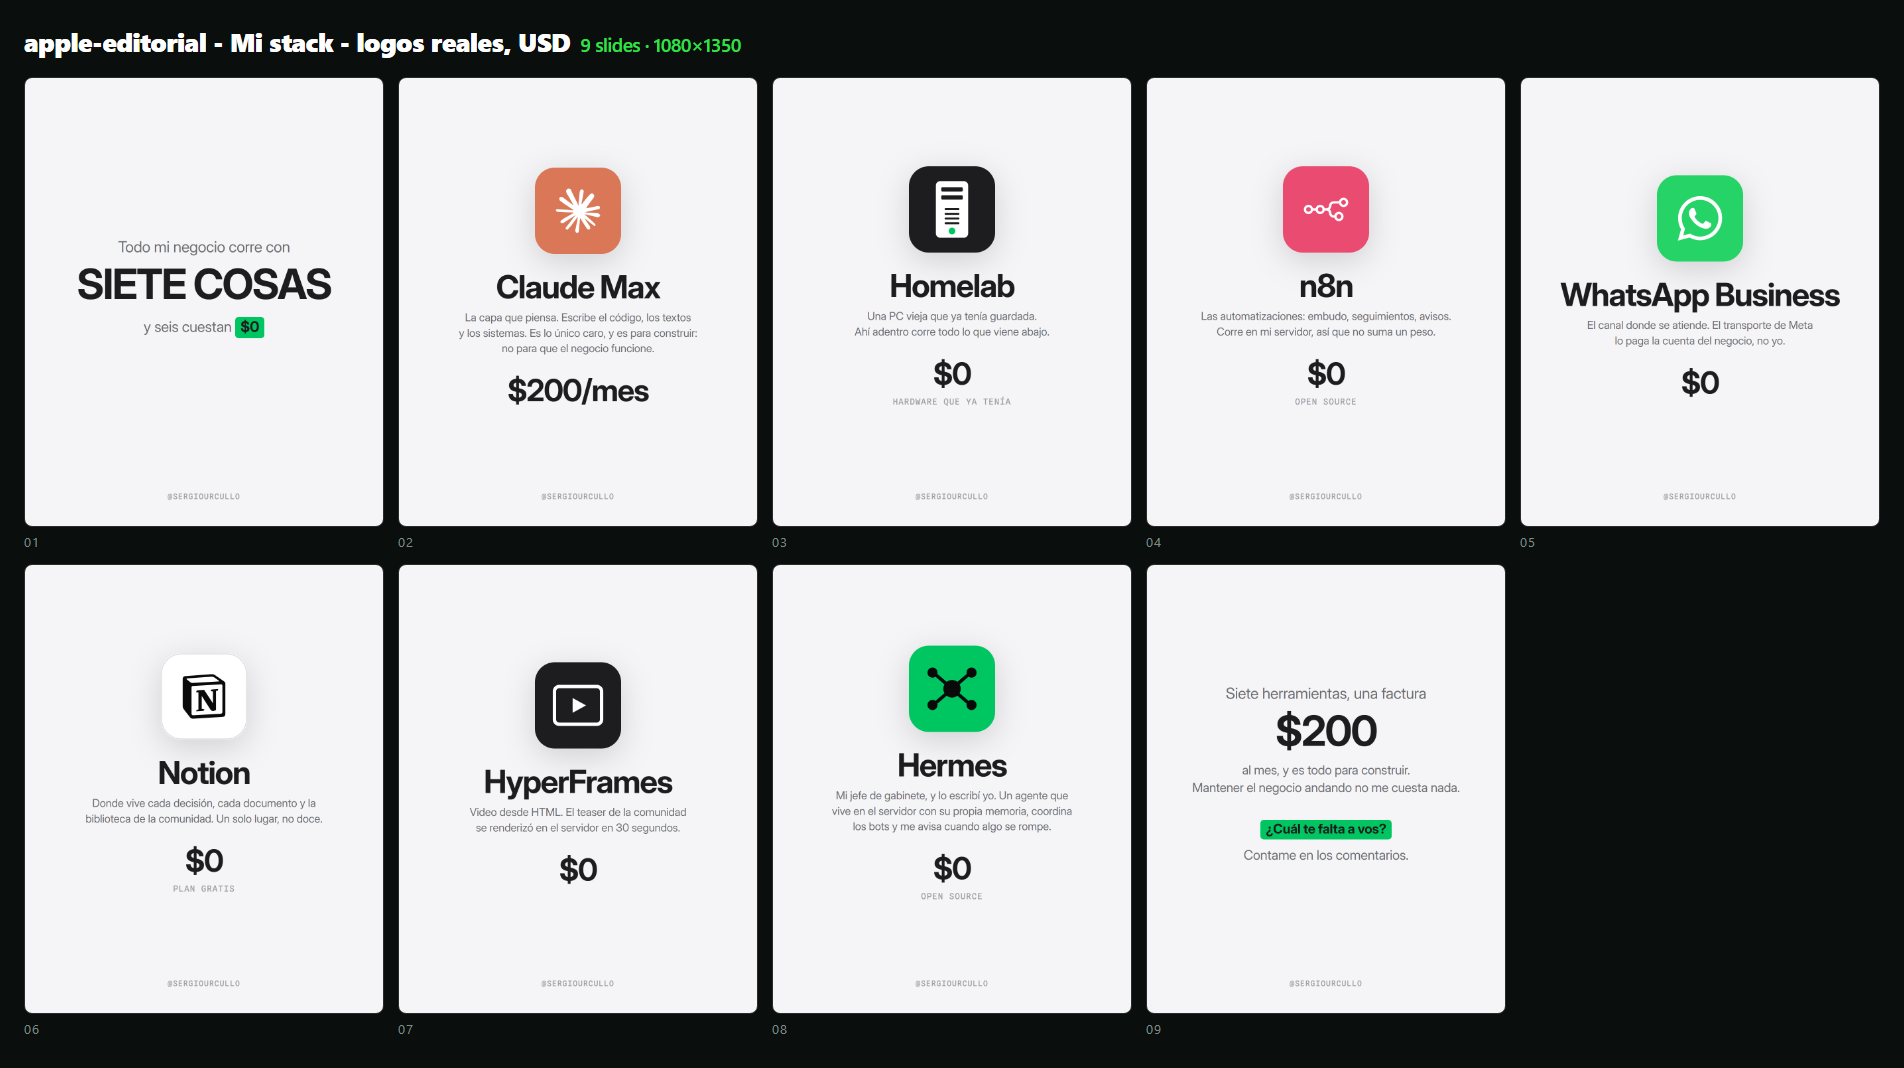
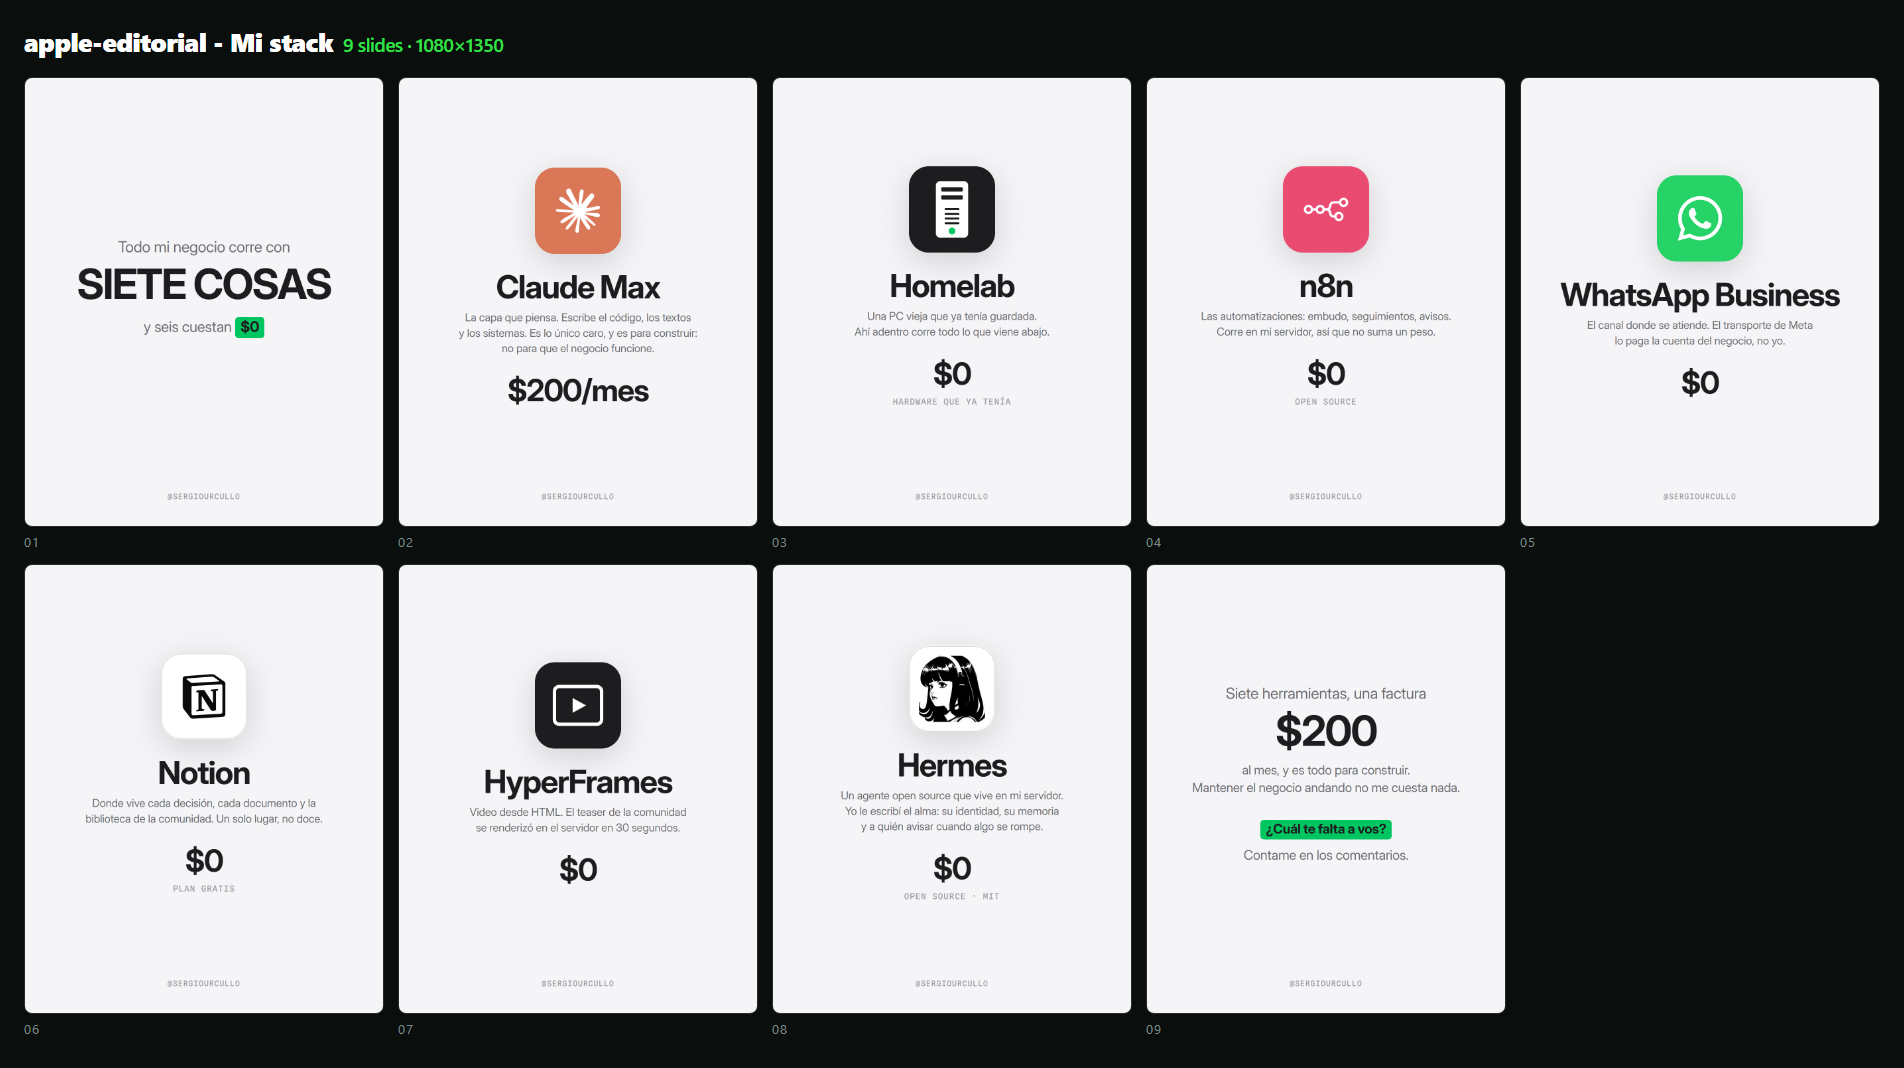
fix(marca-personal): Hermes es open source, pero no es código nuestro
Sergio Urcullo pasó el link: NousResearch/hermes-agent. Verificado con
`gh repo view`: público, MIT, Python, 242k estrellas. Tenía razón en que es open
source — y eso destapó un error peor en la dirección contraria.

La lámina decía "mi jefe de gabinete, y lo escribí yo". Falso: el agente es de
NousResearch. Lo de Sergio Urcullo es el SOUL.md, la memoria y la config con la
que corre en su servidor, que es lo que dice ahora: "un agente open source que
vive en mi servidor; yo le escribí el alma".

La causa fue una colisión de nombres que la memoria del proyecto ya tenía
marcada: hermes-content/deploy/hermes-agent/SOUL.md dice "Hermes — el jefe de
gabinete de Sergio" y se lee como si el agente fuera nuestro. Reclamar autoría de
un proyecto ajeno en pieza pública estuvo a un render de salir.

Dos correcciones que se caen de ahí:
· El logo es el real del proyecto (nous-girl.jpg, bajado del upstream). La imagen
  que mandó Sergio Urcullo era eso, no un avatar suyo.
· Hermes YA NO lleva el verde de Onia. Vestir código de terceros con nuestra marca
  sugiere autoría. Ahora ningún objeto lleva verde: cada uno usa su propio color,
  y el verde vive sólo en los highlights de la portada y del CTA.

Decisiones suyas aplicadas: el VPS sigue vivo pero no va en la pieza (total $200
es deliberado, no un olvido); Notion en plan gratis.

Changed region(s): [[0.4648, 0.5871, 0.5268, 0.7107], [0.4338, 0.7416, 0.5578, 0.8034], [0.1859, 0.0309, 0.4028, 0.0618]]

diff --git a/scripts/marca-personal/generar-apple-editorial.py b/scripts/marca-personal/generar-apple-editorial.py
@@ -92,6 +92,23 @@ def _marca(slug, color):
             f'<path d="{d}" fill="{color}"/></g>')
 
 
+def _imagen(nombre, alto=196):
+    """Logo en mapa de bits dentro del squircle (PNG/JPG), centrado.
+
+    Existe para el logo de Hermes, que es una ilustracion y no un glifo: redibujarla
+    "parecida" es exactamente la trampa #9 de la FICHA. Devuelve '' si el archivo no
+    esta, y el llamador cae al glifo dibujado — asi el generador nunca se rompe por un
+    asset ausente, solo entrega menos.
+    """
+    for ext in (".png", ".jpg", ".jpeg", ".svg", ".webp"):
+        ruta = LOGOS / f"{nombre}{ext}"
+        if ruta.exists():
+            off = (256 - alto) / 2
+            return (f'<image href="{ruta.as_uri()}" x="{off}" y="{off}" '
+                    f'width="{alto}" height="{alto}" preserveAspectRatio="xMidYMid meet"/>')
+    return ""
+
+
 def _torre():
     # Torre de escritorio: el homelab es una maquina fisica que Sergio Urcullo ya tenia,
     # no un servidor alquilado. La primera version salio angosta y con dos rayas, y a
@@ -126,16 +143,21 @@ ICONOS = {
         '<rect x="58" y="72" width="140" height="112" rx="14" fill="none" stroke="#FFFFFF" stroke-width="10"/>'
         '<path d="M112 106 L152 128 L112 150 Z" fill="#FFFFFF"/>',
     ),
-    # Hermes lleva el verde de Onia y es el UNICO objeto que lo lleva: dice "esta es mia"
-    # sin gastar una palabra. Relleno verde con glifo negro — el tratamiento de la §7 que
-    # mide 8,72:1; el verde como tinta reprueba AA.
+    # Hermes usa el logo REAL del proyecto (nous-girl de NousResearch/hermes-agent, MIT).
+    # NO lleva el verde de Onia: es codigo de terceros, y vestirlo con nuestra marca
+    # sugeriria autoria. Squircle blanco con filo, como Notion — el line art es blanco y
+    # negro y sobre blanco lee perfecto. El glifo de nodos queda de respaldo por si falta
+    # el archivo, para que el generador no se rompa por un asset ausente.
     "hermes": _squircle(
-        "#00C661",
-        '<circle cx="128" cy="128" r="26" fill="#0A0A0A"/>'
-        '<circle cx="70" cy="80" r="15" fill="#0A0A0A"/><circle cx="186" cy="80" r="15" fill="#0A0A0A"/>'
-        '<circle cx="70" cy="176" r="15" fill="#0A0A0A"/><circle cx="186" cy="176" r="15" fill="#0A0A0A"/>'
-        '<path d="M84 90 L112 114 M172 90 L144 114 M84 166 L112 142 M172 166 L144 142"'
-        ' stroke="#0A0A0A" stroke-width="10" stroke-linecap="round"/>',
+        "#FFFFFF",
+        _imagen("hermes") or (
+            '<circle cx="128" cy="128" r="26" fill="#0A0A0A"/>'
+            '<circle cx="70" cy="80" r="15" fill="#0A0A0A"/><circle cx="186" cy="80" r="15" fill="#0A0A0A"/>'
+            '<circle cx="70" cy="176" r="15" fill="#0A0A0A"/><circle cx="186" cy="176" r="15" fill="#0A0A0A"/>'
+            '<path d="M84 90 L112 114 M172 90 L144 114 M84 166 L112 142 M172 166 L144 142"'
+            ' stroke="#0A0A0A" stroke-width="10" stroke-linecap="round"/>'
+        ),
+        borde="#D2D2D7",
     ),
 }
 
@@ -212,18 +234,19 @@ LAMINAS = [
         "desc": "Video desde HTML. El teaser de la comunidad\nse renderizó en el servidor en 30 segundos.",
         "precio": "$0",
     },
-    # El giro, justo antes del cierre: la unica del stack que escribio el, y encima abierta.
-    # Hermes vive en hermes-content/deploy/hermes-agent/SOUL.md ("el jefe de gabinete de
-    # Sergio"). Open source por decision de Sergio Urcullo (06-sep) — es su codigo y su
-    # licencia. OJO: hoy no hay repo publico enlazable; si la lamina lo dice, alguien lo va
-    # a pedir en los comentarios.
+    # El giro, justo antes del cierre. ⚠ Corregido el 06-sep: la bajada decia "lo escribi
+    # yo" y es FALSO. Hermes es NousResearch/hermes-agent — publico, MIT, Python, 242k
+    # estrellas (verificado con `gh repo view`). Lo de Sergio Urcullo es el SOUL.md, la
+    # memoria y la config con la que corre en su maquina, que es lo que ahora dice la
+    # lamina. Reclamar autoria de un proyecto ajeno en pieza publica es lo peor que podia
+    # tener esta pieza.
     {
         "layout": "E",
         "icono": "hermes",
         "nombre": "Hermes",
-        "desc": "Mi jefe de gabinete, y lo escribí yo. Un agente que\nvive en el servidor con su propia memoria, coordina\nlos bots y me avisa cuando algo se rompe.",
+        "desc": "Un agente open source que vive en mi servidor.\nYo le escribí el alma: su identidad, su memoria\ny a quién avisar cuando algo se rompe.",
         "precio": "$0",
-        "etiqueta": "Open source",
+        "etiqueta": "Open source · MIT",
     },
     {
         "layout": "D",

diff --git a/hermes-content/references/ui-patterns/apple-editorial/FICHA.md b/hermes-content/references/ui-patterns/apple-editorial/FICHA.md
@@ -52,9 +52,11 @@ Valores exactos en [`tokens.css`](tokens.css). Lo que no se puede poner en una v
 - **Etiqueta de procedencia** (`open source`, `plan gratis`) debajo del precio, en el mismo
   tratamiento que el handle — mono, mayúscula, gris. Lee como dato técnico y no compite con
   el precio. Es opcional: se pone sólo donde es **verificable**.
-- **El verde marca propiedad, no decora.** En «Mi stack» el único objeto con el verde de
-  Onia es Hermes, que es lo único que escribió Sergio Urcullo: dice "ésta es mía" sin gastar
-  una palabra. Relleno verde + glifo negro (8,72:1), nunca verde como tinta.
+- **Ningún objeto lleva el verde de Onia.** Se probó vestir a Hermes de verde para decir
+  "ésta es mía" — y era falso: Hermes es código MIT de terceros. Vestir una herramienta
+  ajena con nuestra marca sugiere autoría. Cada objeto usa **su propio** color de marca; el
+  verde vive sólo en el highlight de la portada y en el del CTA. Relleno verde + tinta negra
+  (8,72:1), nunca verde como tinta.
 
 ## Tipografía — ✅ INTER, aprobada por Sergio Urcullo (06-sep, mirando el A/B)
 
@@ -143,5 +145,22 @@ aparte y deja el A/B mirable.
    "4 vCPU / 16 GB / 41 contenedores" que le había puesto — **son del VPS, no de esta
    máquina**, y las de la PC no están registradas en ningún lado. Sin dato verificado, no se
    escribe dato.
-   🔴 **Queda abierto:** si el VPS de §8.1 (US$40/mes) sigue vivo y pagado, la pieza está
-   omitiendo una factura real y el total no es $200 sino $240. Depende de Sergio Urcullo.
+   ✅ **Resuelto (06-sep):** el VPS de §8.1 sigue vivo, y Sergio Urcullo decidió **no
+   ponerlo** en la pieza. El total de $200 refleja esa decisión, no un olvido.
+12. 🔴 **Hermes SÍ es open source — pero NO es código de Onia. Casi se publica una falsa
+   autoría.** La lámina llegó a decir *"mi jefe de gabinete, y lo escribí yo"*. Es
+   `NousResearch/hermes-agent`: **público, MIT, Python, 242k estrellas** (verificado con
+   `gh repo view`, no de memoria).
+   La trampa fue una **colisión de nombres** que la memoria del proyecto ya tenía marcada:
+   `hermes-content/deploy/hermes-agent/SOUL.md` dice *"Hermes — el jefe de gabinete de
+   Sergio"* y se lee como si el agente fuera nuestro. **Lo nuestro es el SOUL.md, la memoria
+   y la config**; el agente es de terceros. Eso es lo que dice la lámina ahora: *"un agente
+   open source que vive en mi servidor; yo le escribí el alma"*.
+   **La regla:** antes de escribir "lo hice yo" sobre cualquier pieza del stack, se corre
+   `gh repo view` sobre el upstream. Reclamar autoría de un proyecto ajeno en pieza pública
+   es el peor error que esta pieza podía cometer, y estuvo a un render de salir.
+13. **Un logo que es ilustración no se redibuja: se busca el original.** El de Hermes es
+   line art (`nous-girl.jpg` del repo de NousResearch). Se bajó del upstream en vez de
+   aproximarlo — redibujarlo sería repetir la trampa #9. `_imagen()` lo toma de
+   `logos/hermes.*` y cae al glifo de nodos si falta, así el generador nunca se rompe por un
+   asset ausente: sólo entrega menos.

diff --git a/hermes-content/references/ui-patterns/apple-editorial/logos/LICENCIA.md b/hermes-content/references/ui-patterns/apple-editorial/logos/LICENCIA.md
@@ -10,3 +10,14 @@ las referencias del patron. No se alteran las formas ni se sugiere afiliacion.
 
 Colores oficiales aplicados por el generador (ver `ICONOS` en
 `scripts/marca-personal/generar-apple-editorial.py`).
+
+## hermes.jpg
+
+`nous-girl.jpg` de [NousResearch/hermes-agent](https://github.com/NousResearch/hermes-agent)
+(`apps/desktop/public/`), el repo **publico y MIT** del agente Hermes. Es la imagen que
+Sergio Urcullo identifico como el logo del proyecto. Mismo uso nominativo que el resto:
+la lamina dice "uso esta herramienta", no sugiere afiliacion ni autoria.
+
+⚠ Hermes **no es codigo de Onia**. Verificado el 2026-09-06: `NousResearch/hermes-agent`,
+publico, licencia MIT, Python. Lo que si es de Sergio Urcullo es el `SOUL.md`, la memoria
+y la configuracion con la que corre en su servidor.
